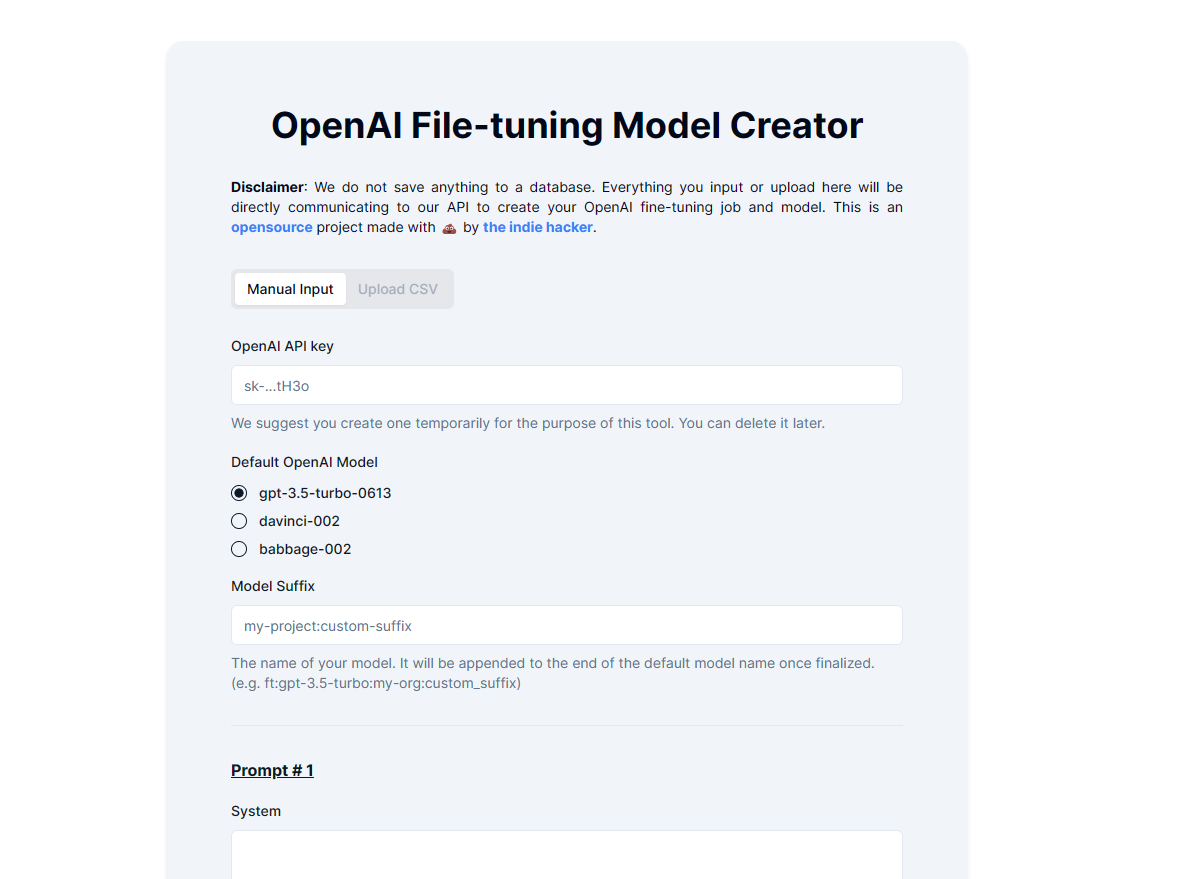
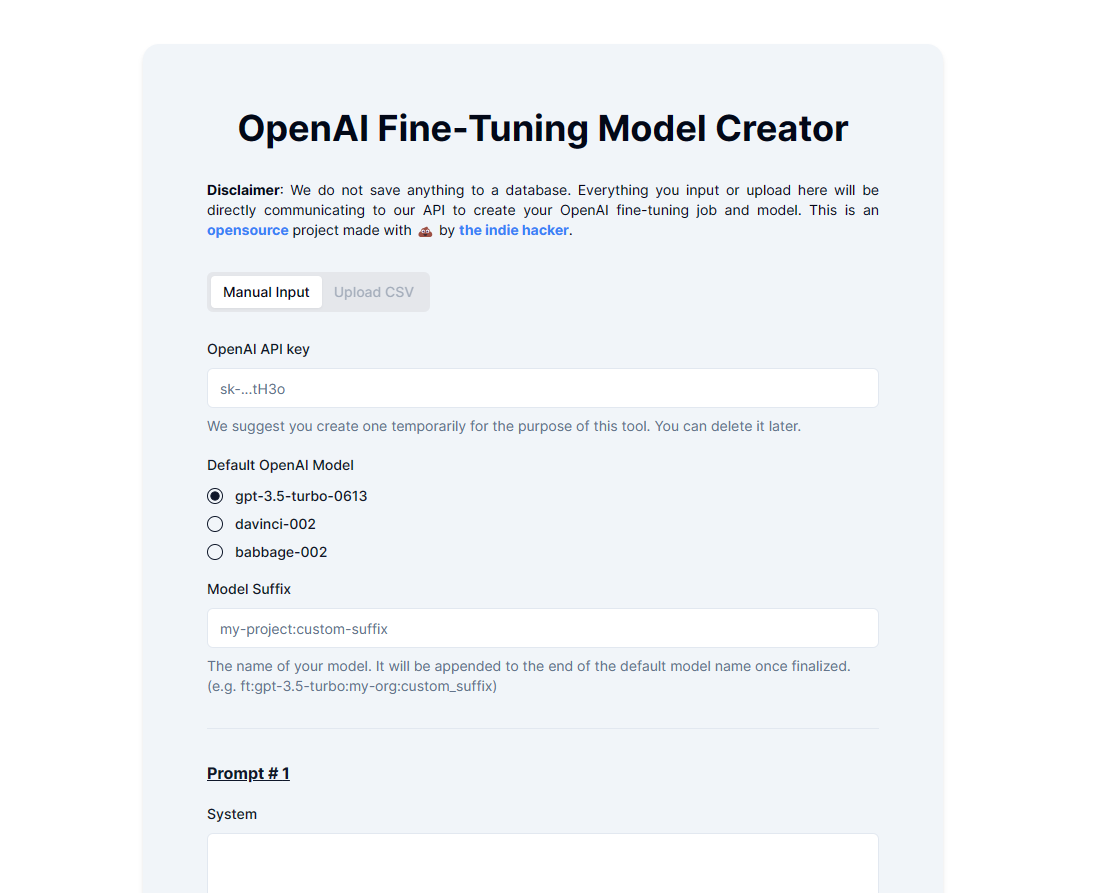
Fix typo

diff --git a/app/ManualInput.tsx b/app/ManualInput.tsx
@@ -112,7 +112,7 @@ const ManualInput = () => {
       formData.append("suffix", trimSuffix);
       formData.append("file", jsonl, "data.jsonl");
 
-      const response = await axios.post("/api/file-tuning/upload", formData, {
+      const response = await axios.post("/api/fine-tuning/upload", formData, {
         headers: {
           "Content-Type": "multipart/form-data",
         },
@@ -146,7 +146,7 @@ const ManualInput = () => {
     setIsLoading(true);
 
     try {
-      const response = await axios.post("/api/file-tuning/job", {
+      const response = await axios.post("/api/fine-tuning/job", {
         apiKey: form.getValues("apiKey"),
         fileId: fileUploaded?.id,
         model: form.getValues("model"),
@@ -200,7 +200,7 @@ const ManualInput = () => {
       }
 
       const response = await axios.post(
-        "/api/file-tuning/check-upload-status",
+        "/api/fine-tuning/check-upload-status",
         {
           apiKey,
           fileId: fileUploaded?.id,
@@ -243,7 +243,7 @@ const ManualInput = () => {
       }
 
       const response = await axios.post(
-        "/api/file-tuning/check-deploy-status",
+        "/api/fine-tuning/check-deploy-status",
         {
           apiKey,
           finetuningId: finetuningDeployed?.id,

diff --git a/app/page.tsx b/app/page.tsx
@@ -7,7 +7,7 @@ export default function Home() {
   return (
     <div className="flex w-full h-full flex-col gap-8 p-16 m-16 max-w-[50rem] bg-muted rounded-2xl shadow-md">
       <h1 className="text-4xl font-bold self-center">
-        OpenAI File-tuning Model Creator
+        OpenAI Fine-Tuning Model Creator
       </h1>
       <p className="text-sm text-justify">
         <span className="font-bold">Disclaimer</span>: We do not save anything

diff --git a/README.md b/README.md
@@ -1,6 +1,6 @@
-# OpenAI File-tuning Model Builder and Deployer
+# OpenAI Fine-Tuning Model Builder and Deployer
 
-![OpenAI File-tuning Model Builder and Deployer Screenshot](https://openai-finetuning-model-creator.vercel.app/screenshot.png)
+![OpenAI Fine-Tuning Model Builder and Deployer Screenshot](https://openai-finetuning-model-creator.vercel.app/screenshot.png)
 
 Welcome to the AI Fine-Tuning Builder! This tool is designed for people who want to customize their own AI models without dealing with complicated code. Everything you need can be done right from this user-friendly web interface.
 
